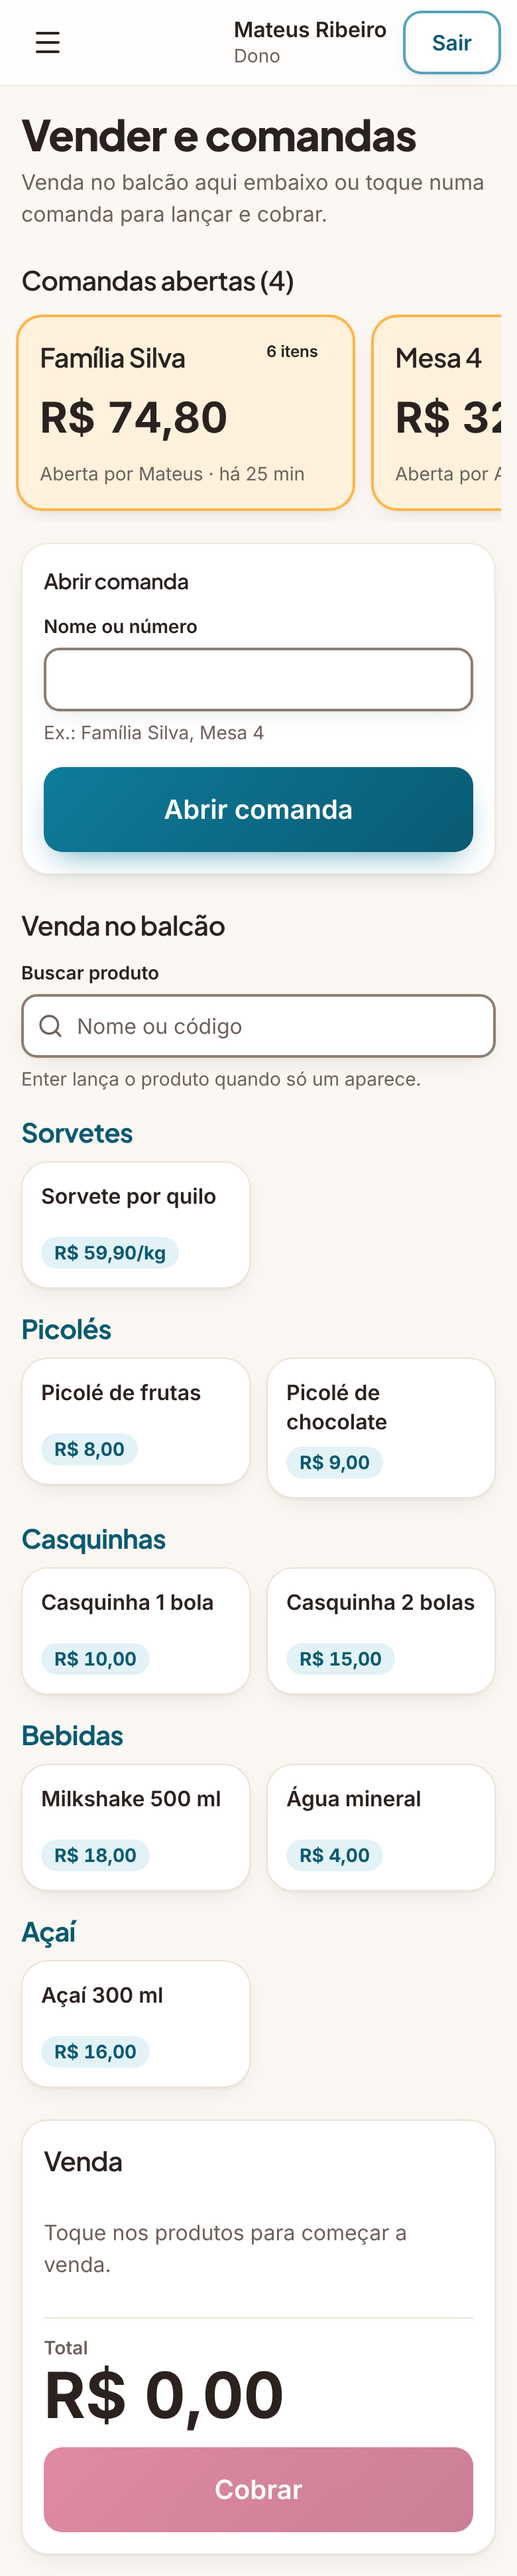
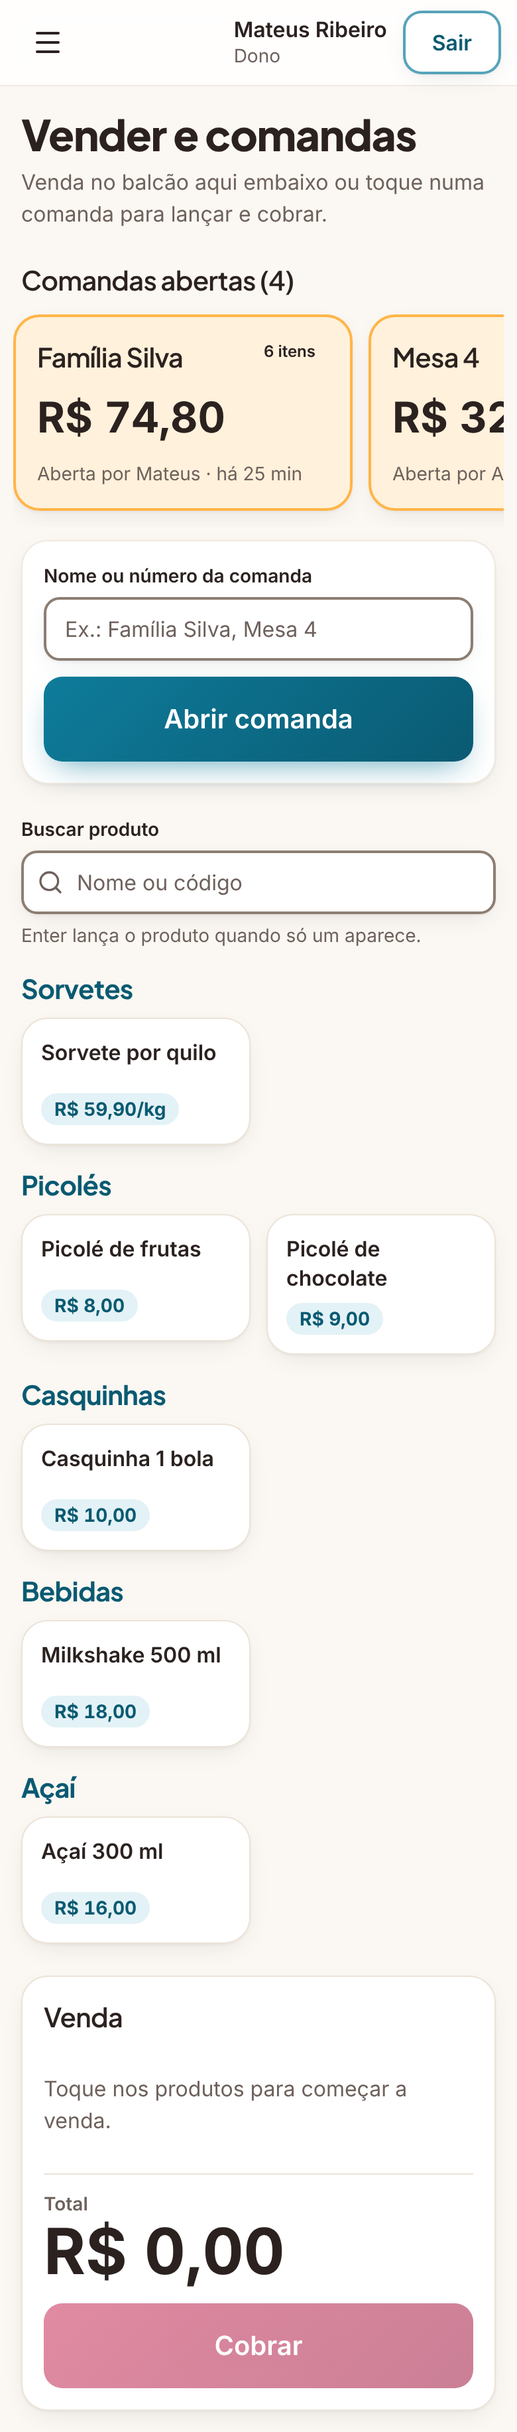
Ajusta Vender e comandas depois da revisão
- Cabeçalho da comanda com "Ir para Vender", sem repetir o link da confirmação.
- Menu marca Vender e comandas também dentro de uma comanda.
- Faixa de comandas com folga para o contorno de foco.
- Abrir comanda enxuto no celular e tablet (campo e botão lado a lado).
- Seção da venda no balcão sem título extra fora da hierarquia.

Claude-Session: https://claude.ai/code/session_01NNBxeng9njN7iqPBx2Ua8F

diff --git a/src/features/vendas/components/AbrirComandaForm.tsx b/src/features/vendas/components/AbrirComandaForm.tsx
@@ -14,20 +14,25 @@ export function AbrirComandaForm() {
   const { formRef, enviar } = useEnvioSemReset(acao, estado);
 
   return (
-    <form ref={formRef} onSubmit={enviar} className="flex flex-col gap-4" noValidate>
+    <form ref={formRef} onSubmit={enviar} className="flex flex-col gap-3" noValidate>
       <RetornoFormulario estado={estado} />
-      <Campo
-        name="identificacao"
-        rotulo="Nome ou número"
-        dica="Ex.: Família Silva, Mesa 4"
-        autoComplete="off"
-        maxLength={40}
-        required
-        erro={estado.campos?.identificacao}
-      />
-      <Button type="submit" tamanho="lg" carregando={enviando} textoCarregando="Abrindo…">
-        Abrir comanda
-      </Button>
+      {/* Campo e botão lado a lado no tablet; empilhados no celular e na coluna do computador. */}
+      <div className="flex flex-col gap-3 sm:flex-row sm:items-end lg:flex-col lg:items-stretch">
+        <div className="min-w-0 flex-1">
+          <Campo
+            name="identificacao"
+            rotulo="Nome ou número da comanda"
+            placeholder="Ex.: Família Silva, Mesa 4"
+            autoComplete="off"
+            maxLength={40}
+            required
+            erro={estado.campos?.identificacao}
+          />
+        </div>
+        <Button type="submit" tamanho="lg" carregando={enviando} textoCarregando="Abrindo…">
+          Abrir comanda
+        </Button>
+      </div>
     </form>
   );
 }

diff --git a/src/features/vendas/components/PainelComandas.tsx b/src/features/vendas/components/PainelComandas.tsx
@@ -17,7 +17,8 @@ export function PainelComandas({ comandas, podeAbrir }: PainelComandasProps) {
           <p className="rounded-card border border-borda bg-superficie p-4 text-texto-suave">Nenhuma comanda aberta agora.</p>
         ) : (
           // Faixa com rolagem lateral: muitas comandas não empurram os produtos para baixo.
-          <ul className="-mx-1 flex snap-x gap-3 overflow-x-auto px-1 pb-2">
+          // Folga em volta para o contorno de foco dos cartões não ser cortado pela rolagem.
+          <ul className="-m-1.5 flex snap-x gap-3 overflow-x-auto p-1.5 pb-3">
             {comandas.map((comanda) => (
               <li key={comanda.id} className="w-64 shrink-0 snap-start">
                 <CartaoComanda comanda={comanda} />
@@ -28,7 +29,8 @@ export function PainelComandas({ comandas, podeAbrir }: PainelComandasProps) {
       </div>
       {podeAbrir ? (
         <Card className="flex flex-col gap-3 p-4">
-          <h2 className="text-lg font-semibold">Abrir comanda</h2>
+          {/* No celular e no tablet o cartão fica enxuto (o botão já diz "Abrir comanda") para não empurrar os produtos. */}
+          <h2 className="sr-only text-lg font-semibold lg:not-sr-only">Abrir comanda</h2>
           <AbrirComandaForm />
         </Card>
       ) : null}

diff --git a/src/app/(sistema)/vender/page.tsx b/src/app/(sistema)/vender/page.tsx
@@ -28,10 +28,8 @@ export default async function VenderPage() {
     <>
       <PageHeader titulo="Vender e comandas" descricao="Venda no balcão aqui embaixo ou toque numa comanda para lançar e cobrar." />
       <PainelComandas comandas={comandas} podeAbrir />
-      <section aria-labelledby="titulo-balcao" className="flex flex-col gap-3">
-        <h2 id="titulo-balcao" className="text-xl font-semibold">
-          Venda no balcão
-        </h2>
+      {/* Sem título visível: produtos, carrinho e pagamento já têm os próprios títulos. */}
+      <section aria-label="Venda no balcão">
         <PdvBalcao produtos={produtos} bandeiras={bandeiras} />
       </section>
     </>

diff --git a/src/components/layout/ListaMenu.tsx b/src/components/layout/ListaMenu.tsx
@@ -27,8 +27,11 @@ const icones: Record<IconeMenu, LucideIcon> = {
   configuracoes: Settings,
 };
 
+// Uma comanda aberta (/comandas/...) faz parte da tela Vender e comandas.
+const prefixosExtras: Record<string, string[]> = { "/vender": ["/comandas"] };
+
 function estaAtivo(caminho: string, href: string) {
-  return caminho === href || caminho.startsWith(`${href}/`);
+  return [href, ...(prefixosExtras[href] ?? [])].some((prefixo) => caminho === prefixo || caminho.startsWith(`${prefixo}/`));
 }
 
 // Menu sobre o azul-noite (lateral e gaveta): foco em manga, que contrasta com o fundo escuro.

diff --git a/e2e/operacao.spec.ts b/e2e/operacao.spec.ts
@@ -126,7 +126,7 @@ test.describe("operação da loja pelo dono", () => {
 
   test("comanda: abre, lança item, cobra no Pix e sai das abertas", async () => {
     await page.goto("/vender");
-    await page.getByLabel("Nome ou número").fill(COMANDA);
+    await page.getByLabel("Nome ou número da comanda").fill(COMANDA);
     await page.getByRole("button", { name: "Abrir comanda" }).click();
     await expect(page).toHaveURL(/\/comandas\/[0-9a-f-]{36}$/);
     await expect(tituloDaPagina(page)).toHaveText(`Comanda ${COMANDA}`);

diff --git a/src/app/(sistema)/comandas/[id]/page.tsx b/src/app/(sistema)/comandas/[id]/page.tsx
@@ -26,7 +26,7 @@ export default async function ComandaPage({ params }: PageProps<"/comandas/[id]"
 
   const voltar = (
     <Link href="/vender" className={estiloBotao({ variante: "secundario" })}>
-      Voltar às comandas
+      Ir para Vender
     </Link>
   );
   const cabecalho = (
